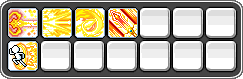
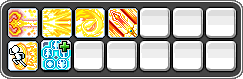
BuffIcon 추가

Changed region(s): [[0.144, 0.481, 0.3169, 0.9114]]

diff --git a/Client/exBuffIcon.cpp b/Client/exBuffIcon.cpp
@@ -1,0 +1,69 @@
+#include "exBuffIcon.h"
+#include "exPlayer.h"
+#include "exInput.h" 
+#include "exTime.h"
+#include "exResourceManager.h"
+#include "exTexture.h"
+#include "exObject.h"
+#include "exCollisionManager.h"
+#include "exSceneManager.h"
+#include "exSpriteRenderer.h"
+// Component
+#include "exTransform.h"
+#include "exAnimator.h"
+#include "exCollider.h"
+
+
+namespace ex
+{
+	BuffIcon::BuffIcon()
+	{
+		mBuffIcon = ResourceManager::Load<Texture>(L"ComboSynergyIcon"
+			, L"..\\Resources\\Maple\\Image\\UI\\BuffUI\\ComboSynergyIcon.png");
+
+		mAnimator->CreateAnimation(L"ComboSynergyIcon", mBuffIcon, math::Vector2(0.0f, 0.0f), math::Vector2(32.0f, 32.0f)
+			, math::Vector2(32.0f, 32.0f), 1);
+
+		mTransform->SetPosition(math::Vector2(1260.0f, 20.0f));
+		mAnimator->SetAffectedCamera(false);
+
+
+		mAnimator->PlayAnimation(L"ComboSynergyIcon", false);
+	}
+
+	BuffIcon::~BuffIcon()
+	{
+	}
+
+	void BuffIcon::Initialize()
+	{
+	}
+
+	void BuffIcon::Update()
+	{
+		Player* player = SceneManager::GetPlayer();
+
+		if (player->IsBuffCheck() == false)
+		{
+			Destroy(this);
+		}
+		GameObject::Update();
+	}
+
+	void BuffIcon::Render(HDC _hdc)
+	{
+		GameObject::Render(_hdc);
+	}
+
+	void BuffIcon::OnCollisionEnter(Collider* _other)
+	{
+	}
+
+	void BuffIcon::OnCollisionStay(Collider* _other)
+	{
+	}
+
+	void BuffIcon::OnCollisionExit(Collider* _other)
+	{
+	}
+}

diff --git a/Client/exPlayer.cpp b/Client/exPlayer.cpp
@@ -573,16 +573,16 @@ namespace ex
 				
 				mBuff = new Buff(this);
 				object::ActiveSceneAddGameObject(enums::eLayerType::Effect, mBuff);
-				mInfo->mMinDamage += 3000.0f;
-				mInfo->mMaxDamage += 3000.0f;
+				mInfo->mMinDamage += 4000.0f;
+				mInfo->mMaxDamage += 4000.0f;
 				mbBuffCheck = true;
 			}
 			else if (mbBuffCheck)
 			{
 				mbBuffCheck = false;
 				mBuff = nullptr;
-				mInfo->mMinDamage -= 3000.0f;
-				mInfo->mMaxDamage -= 3000.0f;
+				mInfo->mMinDamage -= 4000.0f;
+				mInfo->mMaxDamage -= 4000.0f;
 			}
 
 			mState = eState::Buff;
@@ -1649,6 +1649,9 @@ namespace ex
 
 		ResourceManager::Load<Texture>(L"ComboSynergyEffect_4"
 			, L"..\\Resources\\Maple\\Image\\Player2\\Skill\\ComboSynergy\\Effect\\ComboSynergy_004.png");
+
+		ResourceManager::Load<Texture>(L"ComboSynergyIcon"
+			, L"..\\Resources\\Maple\\Image\\UI\\BuffUI\\ComboSynergyIcon.png");
 	}
 
 }

diff --git a/Client/exBuffIcon.h b/Client/exBuffIcon.h
@@ -1,0 +1,28 @@
+#pragma once
+#include "exUI.h"
+
+namespace ex
+{
+	class Transform;
+	class Collider;
+	class Texture;
+
+	class BuffIcon : public UI
+	{
+	public:
+		BuffIcon();
+		virtual ~BuffIcon();
+
+		virtual void Initialize() override;
+		virtual void Update() override;
+		virtual void Render(HDC _hdc) override;
+
+		virtual void OnCollisionEnter(Collider* _other) override;
+		virtual void OnCollisionStay(Collider* _other) override;
+		virtual void OnCollisionExit(Collider* _other) override;
+
+	private:
+		Texture* mBuffIcon;
+	};
+
+}

diff --git a/Client/exComboSynergyBody.cpp b/Client/exComboSynergyBody.cpp
@@ -11,6 +11,7 @@
 #include "exObject.h"
 #include "exSound.h"
 #include "exComboSynergyEffect.h"
+#include "exBuffIcon.h"
 
 namespace ex
 {
@@ -48,6 +49,9 @@ namespace ex
 
 		ComboSynergyEffect* effect_4 = new ComboSynergyEffect(4);
 		object::ActiveSceneAddGameObject(enums::eLayerType::Effect, effect_4);
+
+		BuffIcon* buffIcon = new BuffIcon();
+		object::ActiveSceneAddGameObject(enums::eLayerType::UI, buffIcon);
 	}
 
 	ComboSynergyBody::~ComboSynergyBody()

diff --git a/Client/exSceneManager.cpp b/Client/exSceneManager.cpp
@@ -64,7 +64,7 @@ namespace ex
 		ResourceManager::Load<Texture>(L"EndBackGroundImgae", L"..\\Resources\\Maple\\Image\\Logo\\EndScene.bmp");
 
 
-		LoadScene(L"BossScene2");
+		LoadScene(L"TitleScene");
 	}
 
 	void SceneManager::Update()
